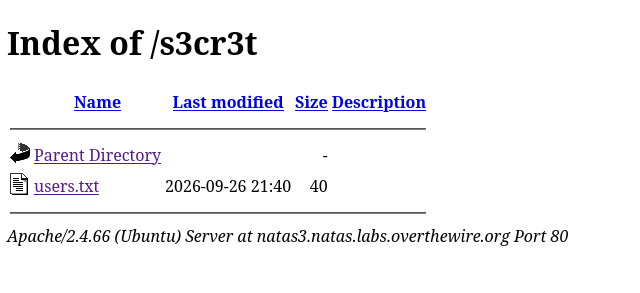
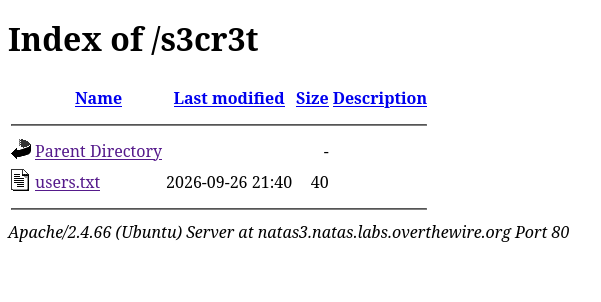
modifi screens

Changed region(s): [[0.0, 0.3072, 0.9584, 0.8601], [0.0, 0.0614, 0.4493, 0.215]]

diff --git a/CTF/Natas/WriteUps/natas04.md b/CTF/Natas/WriteUps/natas04.md
@@ -6,10 +6,10 @@
 *	flag: `e4z2Noy3oqwPJUWzJH0dseN67Cn1sy2M`
 
 ## WriteUp
-1. Upon visiting the website, it becomes clear that the server knows which page we came from and tells us which page we need to go to in order to access the site. Since we don't have the password for natas5 yet, we need to make the server think we came from there.![[natas04_page.png]]
+1. Upon visiting the website, it becomes clear that the server knows which page we came from and tells us which page we need to go to in order to access the site. Since we don't have the password for natas5 yet, we need to make the server think we came from there.![](screenshots/natas04_page.png)
 
-2. I will use Burp Suite for the demonstration. We need to modify the request so that the server thinks we arrived from the natas5 site. We can see the `Referer` parameter in the request, and we need to change it to the one we want. To do this, we click "Send to Repeater" and modify the request there.![[natas04_GET.png]]
+2. I will use Burp Suite for the demonstration. We need to modify the request so that the server thinks we arrived from the natas5 site. We can see the `Referer` parameter in the request, and we need to change it to the one we want. To do this, we click "Send to Repeater" and modify the request there.![](screenshots/natas04_GET.png)
 
-3. ![[natas04_GET_Burp.png]]
+3. ![](screenshots/natas04_GET_Burp.png)
 
-4. We send a request and see the flag![[natas04_pass.png]]
+4. We send a request and see the flag![](screenshots/natas04_pass.png)

diff --git a/CTF/Natas/WriteUps/natas03.md b/CTF/Natas/WriteUps/natas03.md
@@ -6,9 +6,9 @@
 *	flag: `JDrPnuZAKyl6MkiqQGFIddrqpvgOASth`
 
 ## WriteUp
-1. Upon entering the source code, we are greeted with the same phrase as in the previous level and see a hint: `"No more information leaks!! Not even Google will find it this time..."`![[natas03_code.png]]
+1. Upon entering the source code, we are greeted with the same phrase as in the previous level and see a hint: `"No more information leaks!! Not even Google will find it this time..."`![](screenshots/natas03_code.png)
 
-2. We search online to identify directories not indexed by search engines and discover that this can be achieved by checking the `robots.txt` file. We are trying to read this file. We attempt to read this file and see that there is a hidden directory, `/s3cr3t/`. ![[Pasted image 20261004182704.png]]
+2. We search online to identify directories not indexed by search engines and discover that this can be achieved by checking the `robots.txt` file. We are trying to read this file. We attempt to read this file and see that there is a hidden directory, `/s3cr3t/`. ![](screenshots/natas03_robots.png)
 ***P.S.** We could have used a tool like `ffuf` to find the hidden directory.
 
-3. ![[natas03_s3cr3t.png]]![[natas03_pass.png]]
+3. Open users.txt and you'll see the password.![](screenshots/natas03_s3cr3t.png)

diff --git a/CTF/Natas/WriteUps/natas02.md b/CTF/Natas/WriteUps/natas02.md
@@ -6,8 +6,8 @@
 *	flag: `K30JrSRHzjxq3paUQuwozY4MNvmNFyhI`
 
 ## WriteUp
-1. On this level, we are informed that the password is not on this page.![[natas02_page.png]]
+1. On this level, we are informed that the password is not on this page.![](screenshots/natas02_page.png)
 
-2. Open the source code of the page and notice that there is a directory containing an image.![[natas02_code.png]]
+2. Open the source code of the page and notice that there is a directory containing an image.![](screenshots/natas02_code.png)
 
-3. Navigate to that directory and find another file named "users.txt." Accessing this file reveals the password for the next level.![[natas02_files.png]] ![[natas02_pass.png]]
+3. Navigate to that directory and find another file named "users.txt." Accessing this file reveals the password for the next level.![](screenshots/natas02_files.png) ![](screenshots/natas02_pass.png)

diff --git a/CTF/Natas/WriteUps/natas06.md b/CTF/Natas/WriteUps/natas06.md
@@ -6,12 +6,12 @@
 *	flag: `B1szg95UcTnrzwnF3i3TzYHlyYh8iBV0`
 
 ## WriteUp
-1.  This service provides us with the source code for analysis.![[natas06_source.png]]
+1.  This service provides us with the source code for analysis.![](screenshots/natas06_source.png)
 
-2. The secret we are asked to enter is loaded from a file.![[natas06_source_sec.png]] 
+2. The secret we are asked to enter is loaded from a file.![](screenshots/natas06_source_sec.png) 
 
 3. We try to view this file and see a secret.
-   ![[natas06_secret.png]]
+   ![](screenshots/natas06_secret.png)
 
 4. We enter it into the field on the website and get the password for the next level. 
-   ![[natas06_pass.png]] 
+   ![](screenshots/natas06_pass.png) 

diff --git a/CTF/Natas/WriteUps/natas05.md b/CTF/Natas/WriteUps/natas05.md
@@ -6,6 +6,6 @@
 *	flag: `7mhjtShJAcld2NYbKHEadnhEwRn2P8VT`
 
 ## WriteUp
-1. We are greeted by a message informing us that we are not logged in.![[natas05_page.png]]
+1. We are greeted by a message informing us that we are not logged in.![](screenshots/natas05_page.png)
 
-2. Go to the cookies and look for the value next to `loggedin`; it is set to 0. Change it to 1 and reload the page. ![[natas05_cookie.png]]![[natas05_pass.png]]
+2. Go to the cookies and look for the value next to `loggedin`; it is set to 0. Change it to 1 and reload the page. ![](screenshots/natas05_cookie.png)![](screenshots/natas05_pass.png)

diff --git a/CTF/Natas/WriteUps/natas01.md b/CTF/Natas/WriteUps/natas01.md
@@ -6,7 +6,7 @@
 *	flag: `vsDOxoXyq3wckCP1ZmTZ71ngIA606odB`
 
 ## WriteUp
-1. On this level, the principle remains the same. The only change is that right-click doesn't work on the page. ![[natas01_page.png]]
+1. On this level, the principle remains the same. The only change is that right-click doesn't work on the page. ![](screenshots/natas01_page.png)
 
 2. Press Ctrl+U and see the password in the source code of the page.
-   ![[natas01_password.png]]
+   ![](screenshots/natas01_password.png)

diff --git a/CTF/Natas/WriteUps/natas00.md b/CTF/Natas/WriteUps/natas00.md
@@ -6,8 +6,8 @@
 *	flag: `scfWG6qNEIdzqVyfRwEGXyNUfFZkZeQ7`
 
 ## WriteUp
-1. When you visit the website, you see text that tells you the password is on this page.![](natas00_page.png)
+1. When you visit the website, you see text that tells you the password is on this page.![](screenshots/natas00_page.png)
 
 2. You need to view the page's source code. `Ctrl+U`
 Look at the HTML comment and see...
-![](natas00_password.png)
+![](screenshots/natas00_password.png)
